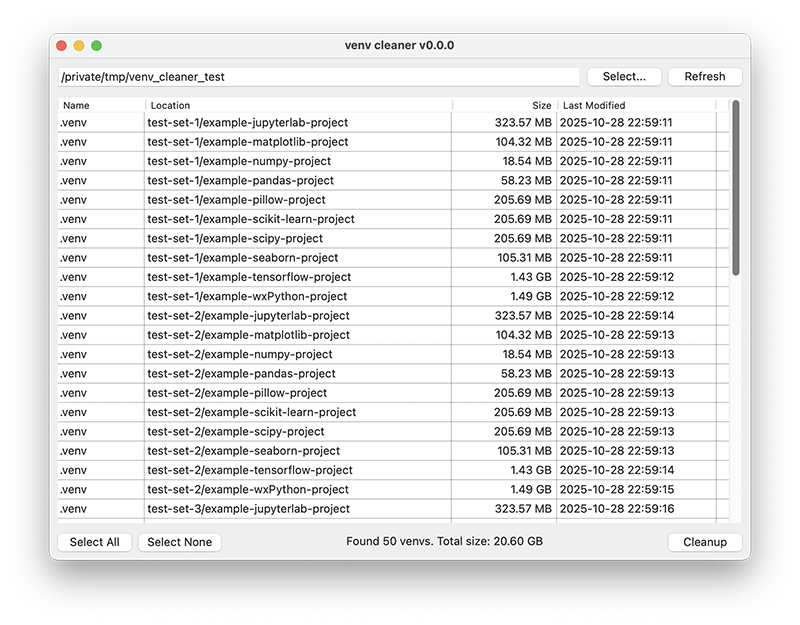
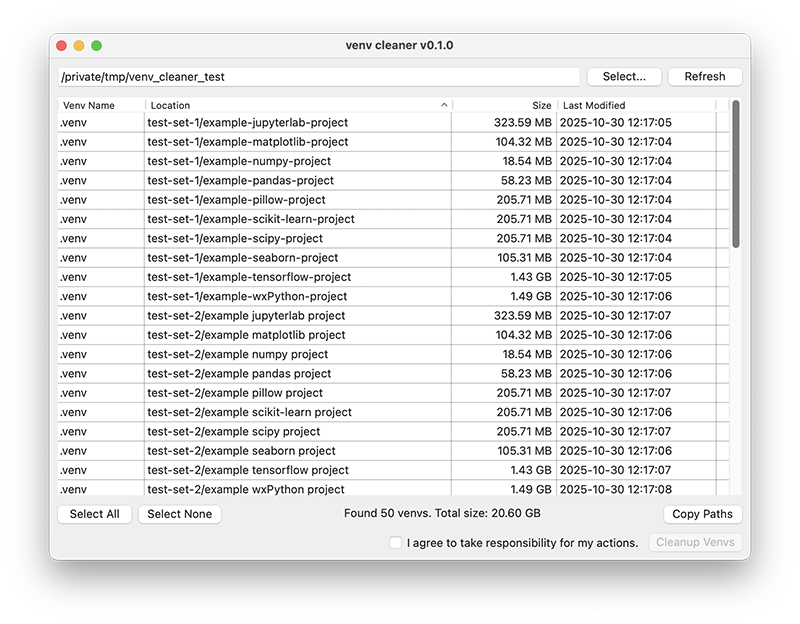
Improve the list view to  be sortable and add "Copy Paths" button

diff --git a/src/venvcleaner/main.py b/src/venvcleaner/main.py
@@ -48,6 +48,10 @@ def _format_size(size):
 def _timestamp_to_local_str(timestamp):
     return str(datetime.fromtimestamp(int(timestamp)))
 
+def _quote_path(path):
+    _path = str(path)
+    return f'"{_path}"' if ' ' in _path else _path
+
 # MARK: Events
 
 myEVT_VENV_FOUND = wx.NewEventType()
@@ -90,6 +94,9 @@ class VenvCleanerFrame(wx.Frame):
         self.Bind(EVT_FIND_VENVS_COMPLETED, self.__on_find_venvs_completed)
         self.Bind(wx.EVT_CLOSE, self.__on_close)
 
+        self.sort_column = 1
+        self.sort_ascending = True
+
         if sys.platform == 'darwin':
             menu_bar = wx.MenuBar()
             file_menu = wx.Menu()
@@ -112,10 +119,20 @@ class VenvCleanerFrame(wx.Frame):
         sizer.Add(dir_path_panel, flag=wx.EXPAND)
 
         self.venv_list = wx.ListCtrl(panel, style=wx.LC_REPORT|wx.LC_HRULES|wx.LC_VRULES|wx.LC_SORT_ASCENDING)
-        self.venv_list.InsertColumn(0, 'Name', width=100)
+        self.venv_list.InsertColumn(0, 'Venv Name', width=100)
         self.venv_list.InsertColumn(1, 'Location', width=350)
         self.venv_list.InsertColumn(2, 'Size', wx.LIST_FORMAT_RIGHT, width=120)
         self.venv_list.InsertColumn(3, 'Last Modified', width=180)
+        def on_venv_list_col_click(event):
+            column = event.GetColumn()
+            if column == self.sort_column:
+                self.sort_ascending = not self.sort_ascending
+            else:
+                self.sort_column = column
+                self.sort_ascending = True
+            self.venv_list.SortItems(self.__sort_venvs)
+            self.venv_list.ShowSortIndicator(self.sort_column, self.sort_ascending)
+        self.venv_list.Bind(wx.EVT_LIST_COL_CLICK, on_venv_list_col_click)
         sizer.Add(self.venv_list, flag=wx.EXPAND|wx.ALL, border=2)
 
         control_panel = self.__setup_control_panel(panel)
@@ -155,34 +172,67 @@ class VenvCleanerFrame(wx.Frame):
 
     def __setup_control_panel(self, parent_panel):
         self.control_panel = wx.Panel(parent_panel)
-        sizer = wx.FlexGridSizer(rows=1, cols=4, gap=wx.Size(4, 0))
-        sizer.AddGrowableCol(2)
+        control_sizer = wx.FlexGridSizer(rows=2, cols=1, gap=wx.Size(8, 8))
+        control_sizer.AddGrowableCol(0)
 
-        select_all_button = wx.Button(self.control_panel, label='Select All')
+        first_panel = wx.Panel(self.control_panel)
+        first_sizer = wx.FlexGridSizer(rows=1, cols=4, gap=wx.Size(4, 4))
+        first_sizer.AddGrowableCol(2)
+
+        select_all_button = wx.Button(first_panel, label='Select All')
         def on_select_all_button_click(event):
             for row in range(self.venv_list.GetItemCount()):
                 self.venv_list.Select(row, on=True)
         select_all_button.Bind(wx.EVT_BUTTON, on_select_all_button_click)
-        sizer.Add(select_all_button, flag=wx.EXPAND|wx.ALL, border=2)
+        first_sizer.Add(select_all_button, flag=wx.EXPAND|wx.ALL, border=2)
 
-        select_none_button = wx.Button(self.control_panel, label='Select None')
+        select_none_button = wx.Button(first_panel, label='Select None')
         def on_select_none_button_click(event):
             for row in range(self.venv_list.GetItemCount()):
                 self.venv_list.Select(row, on=False)
         select_none_button.Bind(wx.EVT_BUTTON, on_select_none_button_click)
-        sizer.Add(select_none_button, flag=wx.EXPAND|wx.ALL, border=2)
+        first_sizer.Add(select_none_button, flag=wx.EXPAND|wx.ALL, border=2)
 
-        self.status_text = wx.StaticText(self.control_panel, label='', style=wx.ALIGN_CENTER_HORIZONTAL)
-        sizer.Add(self.status_text, flag=wx.EXPAND|wx.ALL, border=2)
+        self.status_text = wx.StaticText(first_panel, label='', style=wx.ALIGN_CENTER_HORIZONTAL)
+        first_sizer.Add(self.status_text, flag=wx.EXPAND|wx.ALL, border=2)
 
-        clean_button = wx.Button(self.control_panel, label='Cleanup')
+        copy_button = wx.Button(first_panel, label='Copy Paths')
+        def on_copy_button_click(event):
+            self.__copy_paths()
+        copy_button.Bind(wx.EVT_BUTTON, on_copy_button_click)
+        first_sizer.Add(copy_button, flag=wx.EXPAND|wx.ALL, border=2)
+
+        first_panel.SetSizer(first_sizer)
+        control_sizer.Add(first_panel, flag=wx.EXPAND)
+
+        second_panel = wx.Panel(self.control_panel)
+        second_sizer = wx.FlexGridSizer(rows=1, cols=3, gap=wx.Size(4, 4))
+        second_sizer.AddGrowableCol(0)
+        second_sizer.AddStretchSpacer(1)
+
+        agree_checkbox = wx.CheckBox(second_panel, label='I agree to take responsibility for my actions.')
+        second_sizer.Add(agree_checkbox, flag=wx.EXPAND|wx.ALL, border=2)
+
+        clean_button = wx.Button(second_panel, label='Cleanup Venvs')
+        clean_button.Enable(agree_checkbox.IsChecked())
         def on_clean_button_click(event):
             self.__clean_venvs()
         clean_button.Bind(wx.EVT_BUTTON, on_clean_button_click)
-        sizer.Add(clean_button, flag=wx.EXPAND|wx.ALL, border=2)
+        second_sizer.Add(clean_button, flag=wx.EXPAND|wx.ALL, border=2)
 
-        self.control_panel.SetSizer(sizer)
+        second_panel.SetSizer(second_sizer)
+        control_sizer.Add(second_panel, flag=wx.EXPAND)
+
+        def on_agree_checkbox_click(event):
+            clean_button.Enable(event.IsChecked())
+        agree_checkbox.Bind(wx.EVT_CHECKBOX, on_agree_checkbox_click)
+
+        self.control_panel.SetSizer(control_sizer)
         return self.control_panel
+
+    def __set_status_text(self, text):
+        self.status_text.SetLabel(text)
+        self.control_panel.Layout()
 
     def __start_find_venvs_thread(self):
         self.__ensure_stop_thread()
@@ -190,8 +240,7 @@ class VenvCleanerFrame(wx.Frame):
         self.venvs_cache_inv.clear()
         self.total_size = 0
         self.venv_list.DeleteAllItems()
-        self.status_text.SetLabel('Finding venvs...')
-        self.Layout()
+        self.__set_status_text('Finding venvs...')
         self.find_venvs_thread = threading.Thread(
             target=self.__find_venvs_worker,
             args=(self.dir_path,), 
@@ -221,21 +270,22 @@ class VenvCleanerFrame(wx.Frame):
                     return
                 venv_size = _compute_dir_size(venv_path)
                 wx.QueueEvent(self, VenvSizeComputedEvent(venv_path, venv_size))
-                wx.QueueEvent(self, FindVenvsCompletedEvent())
         except Exception as e:
             logger.error(f'Failed to find venvs: {e}')
+            wx.QueueEvent(self, FindVenvsCompletedEvent())
         finally:
             self.find_venvs_thread = None
 
     def __on_venv_found(self, event):
+        mtime = event.venv_path.stat().st_mtime
         self.venv_list.Append([
             event.venv_path.name, 
             str(event.venv_path.relative_to(self.dir_path).parent), 
             '...', 
-            _timestamp_to_local_str(event.venv_path.stat().st_mtime),
+            _timestamp_to_local_str(mtime),
         ])
         id = self.venv_list.GetItemCount()
-        venv_info = {'path': event.venv_path, 'size': 0, 'id': id}
+        venv_info = {'path': event.venv_path, 'size': 0, 'id': id, 't': mtime}
         self.venvs_cache[id] = venv_info
         self.venvs_cache_inv[event.venv_path] = venv_info
         self.venv_list.SetItemData(id - 1, id)
@@ -249,17 +299,57 @@ class VenvCleanerFrame(wx.Frame):
             venv_info['size'] = event.venv_size
             self.total_size += event.venv_size
             self.venv_list.SetItem(index, 2, _format_size(event.venv_size))
+            if self.sort_column == 2:
+                self.venv_list.SortItems(self.__sort_venvs)
+                self.venv_list.ShowSortIndicator(self.sort_column, self.sort_ascending)
+            n = self.venv_list.GetItemCount()
+            self.__set_status_text(f'Found {n} venvs. Total size: {_format_size(self.total_size)}')
 
     def __on_find_venvs_completed(self, event):
         n = self.venv_list.GetItemCount()
-        self.status_text.SetLabel(f'Found {n} venvs. Total size: {_format_size(self.total_size)}')
-        self.control_panel.Layout()
+        self.__set_status_text(f'Found {n} venvs. Total size: {_format_size(self.total_size)}')
+        self.venv_list.ShowSortIndicator(self.sort_column, self.sort_ascending)
         self.venv_list.SortItems(self.__sort_venvs)
 
     def __sort_venvs(self, item1, item2):
-        venv1 = str(self.venvs_cache[item1]['path']).lower()
-        venv2 = str(self.venvs_cache[item2]['path']).lower()
-        return (venv1 > venv2) - (venv1 < venv2)
+        venv_info1 = self.venvs_cache[item1]
+        venv_info2 = self.venvs_cache[item2]
+        if self.sort_column == 0:
+            val1 = venv_info1['path'].name.lower()
+            val2 = venv_info2['path'].name.lower()
+        elif self.sort_column == 1:
+            val1 = str(venv_info1['path'].parent).lower()
+            val2 = str(venv_info2['path'].parent).lower()
+        elif self.sort_column == 2:
+            val1 = venv_info1['size']
+            val2 = venv_info2['size']
+        elif self.sort_column == 3:
+            val1 = venv_info1['t']
+            val2 = venv_info2['t']
+        else:
+            return 0
+        if self.sort_ascending:
+            return (val1 > val2) - (val1 < val2)
+        else:
+            return (val1 < val2) - (val1 > val2)
+
+    def __copy_paths(self):
+        selected_count = self.venv_list.GetSelectedItemCount()
+        if selected_count == 0:
+            wx.MessageBox('Please select at least one venv to copy the paths.', 'Warning', wx.OK|wx.ICON_WARNING)
+            return
+        paths = []
+        for row in range(self.venv_list.GetItemCount()):
+            if self.venv_list.IsSelected(row):
+                id = self.venv_list.GetItemData(row)
+                venv_info = self.venvs_cache[id]
+                paths.append(_quote_path(venv_info['path']))
+        if wx.TheClipboard.Open():
+            wx.TheClipboard.SetData(wx.TextDataObject(' '.join(paths)))
+            wx.TheClipboard.Close()
+            wx.MessageBox(f'{len(paths)} venv path(s) have been copied to the clipboard.', 'Success', wx.OK|wx.ICON_INFORMATION)
+        else:
+            wx.MessageBox('Failed to open the clipboard. Please try again.', 'Error', wx.OK|wx.ICON_ERROR)
 
     def __clean_venvs(self):
         selected_count = self.venv_list.GetSelectedItemCount()
@@ -294,8 +384,7 @@ class VenvCleanerFrame(wx.Frame):
                 logger.error(f'Failed to clean up: {venv_path}')
             row += 1
         n = self.venv_list.GetItemCount()
-        self.status_text.SetLabel(f'{n} venv(s) remaining. Total size: {_format_size(self.total_size)}')
-        self.control_panel.Layout()
+        self.__set_status_text(f'{n} venv(s) remaining. Total size: {_format_size(self.total_size)}')
         self.venv_list.Update()
         if error_count > 0:
             wx.MessageBox(
@@ -327,8 +416,6 @@ class VenvCleanerApp(wx.App):
     def __init__(self, dir_path):
         super().__init__()
 
-        # wxPythonのcontrolをシステム言語で表示できるようにする
-        # NOTE: ただし、ファイル選択ダイアログは英語のまま
         lang_code = wx.Locale().GetSystemLanguage()
         locale = wx.Locale(lang_code)
 

diff --git a/test/make_test_venvs.py b/test/make_test_venvs.py
@@ -28,7 +28,10 @@ for i in range(test_number):
     test_name = f'test-set-{i + 1}'
     test_path = base_path / test_name
     for j in range(len(package_list)):
-        project_name = f'example-{package_list[j]}-project'
+        if i % 2 == 1:
+            project_name = f'example {package_list[j]} project'
+        else:
+            project_name = f'example-{package_list[j]}-project'
         path = test_path / project_name
         print(f'Creating venv {path}...')
         try:

diff --git a/README.md b/README.md
@@ -1,28 +1,42 @@
 # Venv Cleaner
 
-A GUI tool to clean up venv directories that have accumulated over time.
+A simple GUI tool for cleaning up old or unused Python virtual environments (`venv` directories).
 
-![screenshot](./screenshot.png)
+## How to Use
 
-## Quick Start
-
-The simplest way is to use [uvx](https://docs.astral.sh/uv/guides/tools/):
+The easiest way to run Venv Cleaner is with [uvx](https://docs.astral.sh/uv/guides/tools/):
 
 ```bash
 uvx venvcleaner
 ```
 
-If you want to specify a directory path:
+You can also specify a target directory:
 
 ```bash
-uvx venvcleaner /path/to/directory
+uvx venvcleaner /path/to/target-directory
 ```
 
-To start with the latest version from the GitHub repository:
+![screenshot](./screenshot.png)
+
+## Features
+
+- Scans the target directory for virtual environments (`.venv` folders containing a `pyvenv.cfg` file).
+- You can change or refresh the target directory with the __Select...__ or __Refresh__ buttons.
+- Choose which venvs to clean using the selection list.
+  - __Select All__ selects all detected venvs.
+  - __Select None__ clears the selection.
+- __Copy Paths__ copies the paths of selected venvs to your clipboard.
+You can paste them into a terminal to run shell commands manually. For example:
 
 ```bash
-uvx git+https://github.com/yamakox/venvcleaner
+ls /path/to/project-1/.venv "/path/to/project 2/.venv"
+rm -r /path/to/project-1/.venv "/path/to/project 2/.venv"
 ```
+
+- __Cleanup Venvs__ deletes the selected venv directories.
+Before using this button, you must check the agreement box:
+
+> I agree to take responsibility for my actions.
 
 ## License
 
